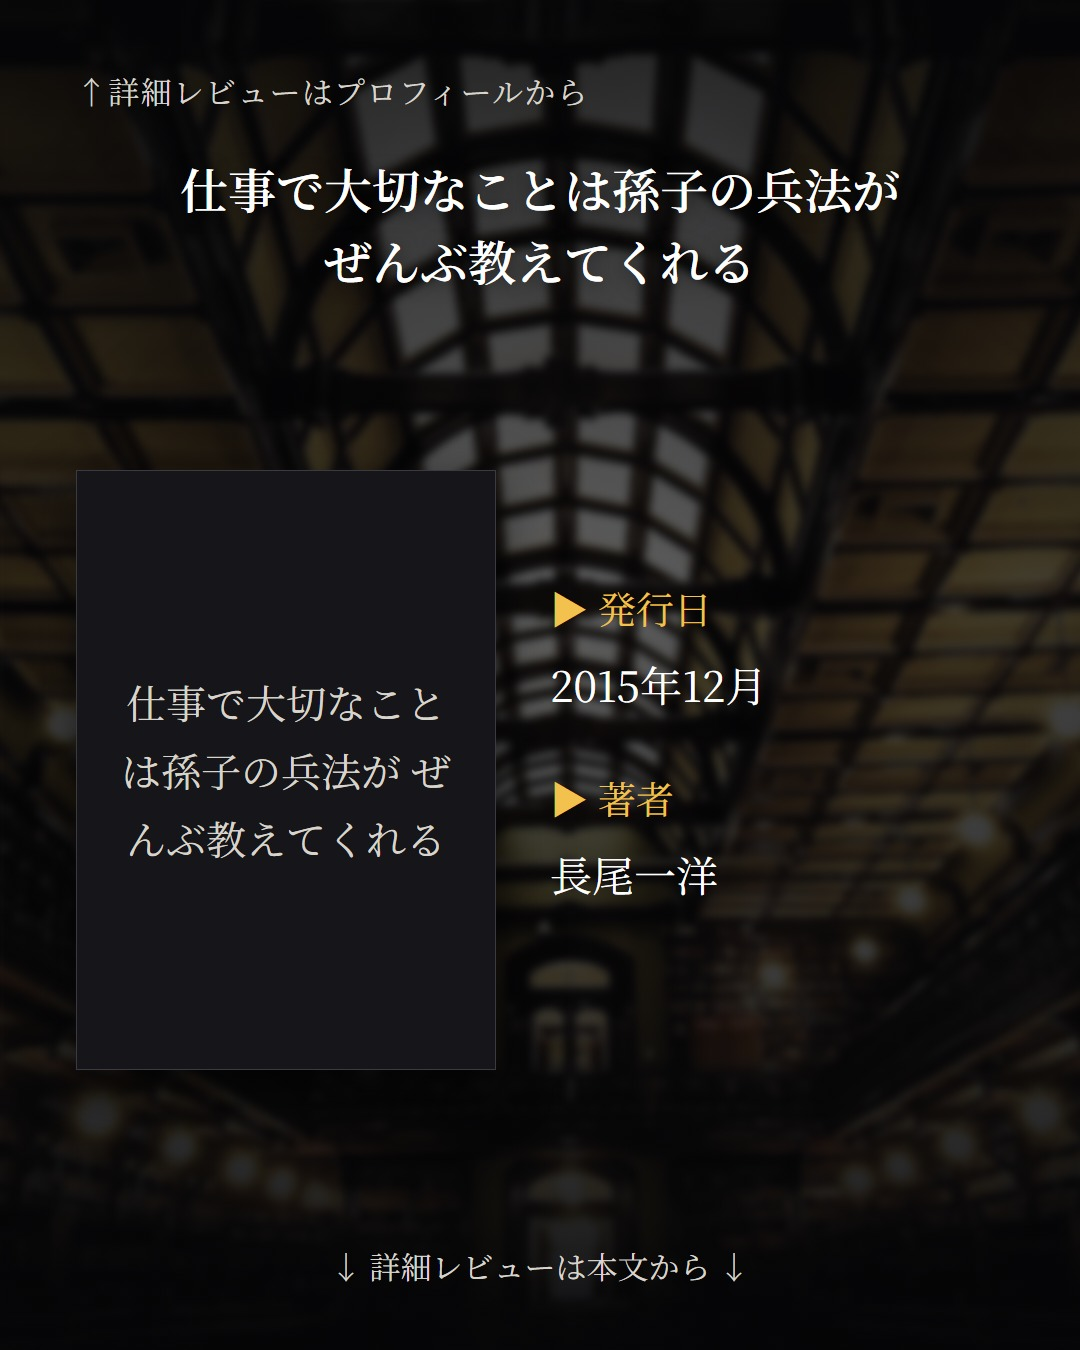
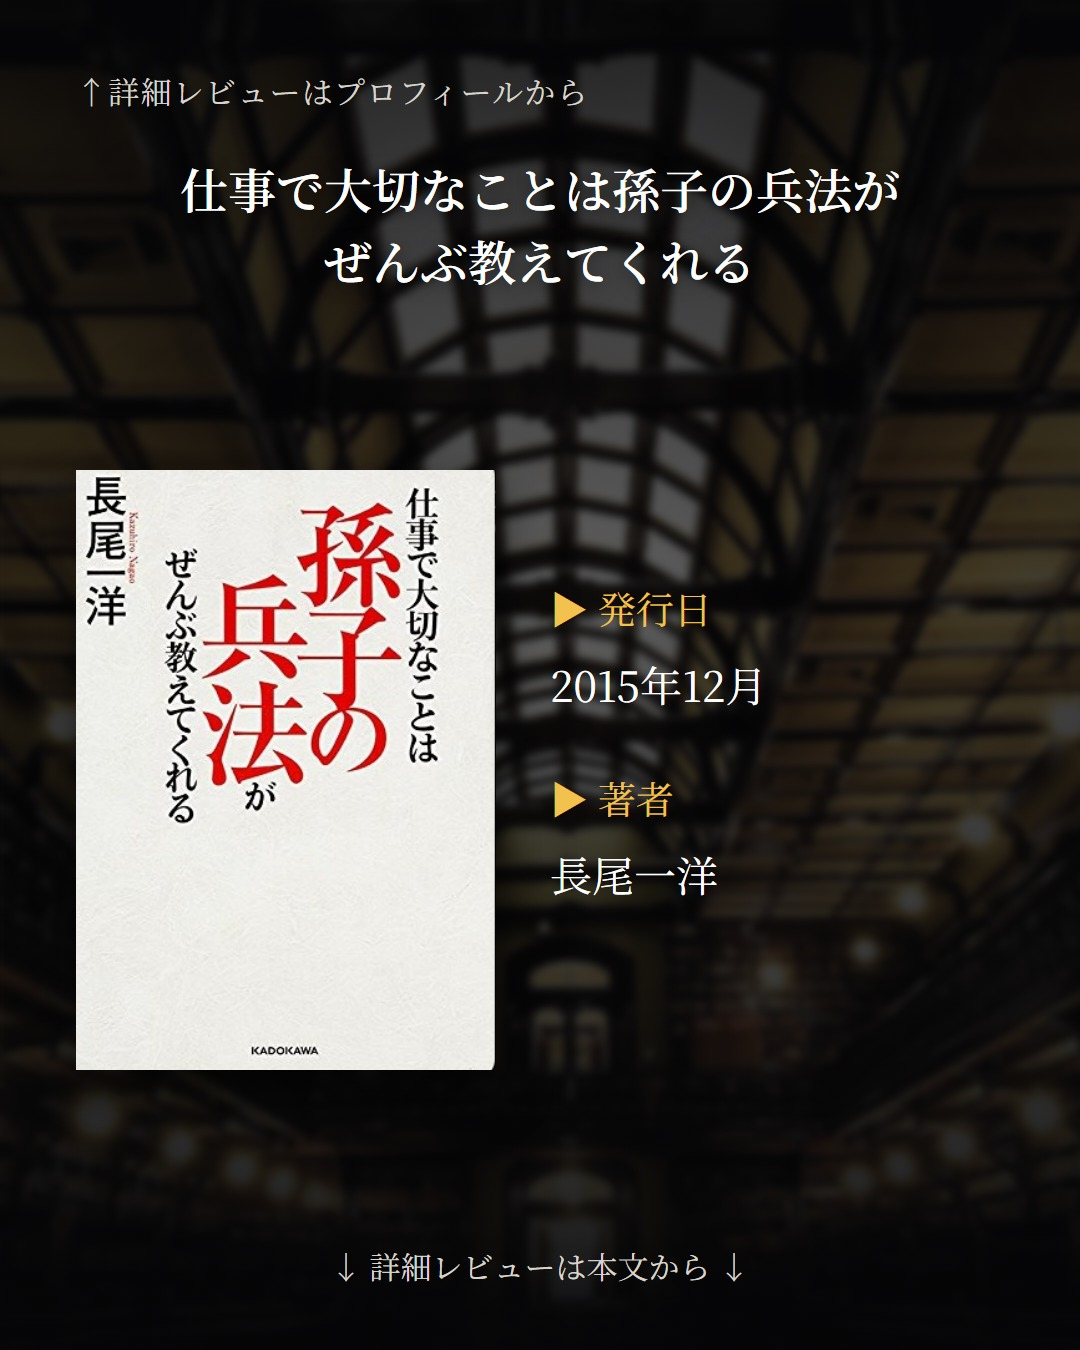
9/29 の書影を取り込む（長尾一洋『孫子の兵法がぜんぶ教えてくれる』）
楽天に取扱いが無いため、藤永さんから受け取った画像を
books/covers/9784046014481.jpg に置いた。

Changed region(s): [[0.0611, 0.3422, 0.4583, 0.8089]]

diff --git a/docs/preview/2026-W40.html b/docs/preview/2026-W40.html
@@ -62,28 +62,6 @@ a { color: #F5B94A; }
 
     <section class="day">
       <div class="day-head">
-        <span class="date">09/28 (Mon)</span>
-        <span class="badge">26年9月後半</span>
-        <span class="book">1000円以下の名著</span>
-      </div>
-      <div class="cards"><img src="../img/2026-09-28/01.jpg" alt="card 1" loading="lazy"><img src="../img/2026-09-28/02.jpg" alt="card 2" loading="lazy"><img src="../img/2026-09-28/03.jpg" alt="card 3" loading="lazy"><img src="../img/2026-09-28/04.jpg" alt="card 4" loading="lazy"><img src="../img/2026-09-28/05.jpg" alt="card 5" loading="lazy"><img src="../img/2026-09-28/06.jpg" alt="card 6" loading="lazy"></div>
-      <h3>カードの文言</h3>
-      <ul class="grounding"><li>1 表紙: 今日から始められる / 安くても中身は濃いビジネス書1000円以下4選</li><li>2 全面改訂　第3版　ほったらかし投資術（869円　レビュー191件　★4.2 / 山崎元、水瀬ケンイチ） この値段で読める理由: リスク資産への投資額の決め方や許容できる損失の決め方、
-口座開設の手順や証券会社別のiDeCoファンドまで具体的に載っています。</li><li>3 本田宗一郎　夢を力に（712円　レビュー140件　★4.2 / 本田 宗一郎） この値段で読める理由: 鍛冶屋の家に生まれ修理工場に奉公した話から、F1挑戦、退任までの回顧。
-巻末には社内報から抜粋した本田宗一郎の言葉も収められています。</li><li>4 クマにあったらどうするか（924円　レビュー81件　★4.4 / 姉崎等、片山竜峯） この値段で読める理由: 死んだふり、木に登る、リュックを置いて逃げる。
-そうした俗説が有効かを、アイヌ民族最後の狩人が自身の経験から検証します。</li><li>5 人生の結論（891円　レビュー87件　★4.2 / 小池一夫） この値段で読める理由: 人との心地よい距離感の保ち方から仕事の乗り切り方、愛、死まで。
-82歳になってやっとわかった、という書き下ろしの人生訓です。</li><li>6 まとめ: チェックリスト</li></ul>
-      <h3>キャプション</h3>
-      <pre class="caption">1,000円以下で読める、評価の高いビジネス書を4冊まとめました。特に3冊目の『クマにあったらどうするか』は、死んだふり、木に登る、リュックを置いて逃げるといった巷の俗説が本当に有効なのかを、アイヌ民族最後の狩人が自身の経験から検証していく一冊です。クマの本当の姿を知ることで共存の形が見えてくる、という構成で、危険な相手をどう理解するかという話として読めるのが気になっています。
-
-『ほったらかし投資術』は新NISA対応の全面改訂版で、リスク資産への投資額の決め方から口座開設の手順まで踏み込んでいます。『本田宗一郎 夢を力に』は「私の履歴書」に加筆したもので、奉公時代からF1挑戦、退任までが本人の言葉で並びます。『人生の結論』は距離感や仕事、死までを扱った書き下ろし。値段は安くても、書かれている中身はどれも具体的です。</pre>
-      <h3>書籍固有ハッシュタグ</h3>
-      <div class="tags"><span class="tag">#ビジネス書おすすめ</span><span class="tag">#コスパ最強</span></div>
-      
-    </section>
-    
-    <section class="day">
-      <div class="day-head">
         <span class="date">09/29 (Tue)</span>
         <span class="badge">仕事で大切なことは孫子の兵法がぜんぶ教えてくれる</span>
         <span class="book">長尾一洋</span>

diff --git a/docs/upcoming.html b/docs/upcoming.html
@@ -58,7 +58,7 @@ a { color: #F5B94A; }
 <h1>これから配信する投稿</h1>
 <p class="lede">
   まだ投稿していない下書きを、日付の早い順に14件まで並べています。
-  投稿が済んだ分は自動的に消えます。更新日時: 2026-09-27 23:42
+  投稿が済んだ分は自動的に消えます。更新日時: 2026-09-29 22:38
 </p>
 
     <section class="day">
